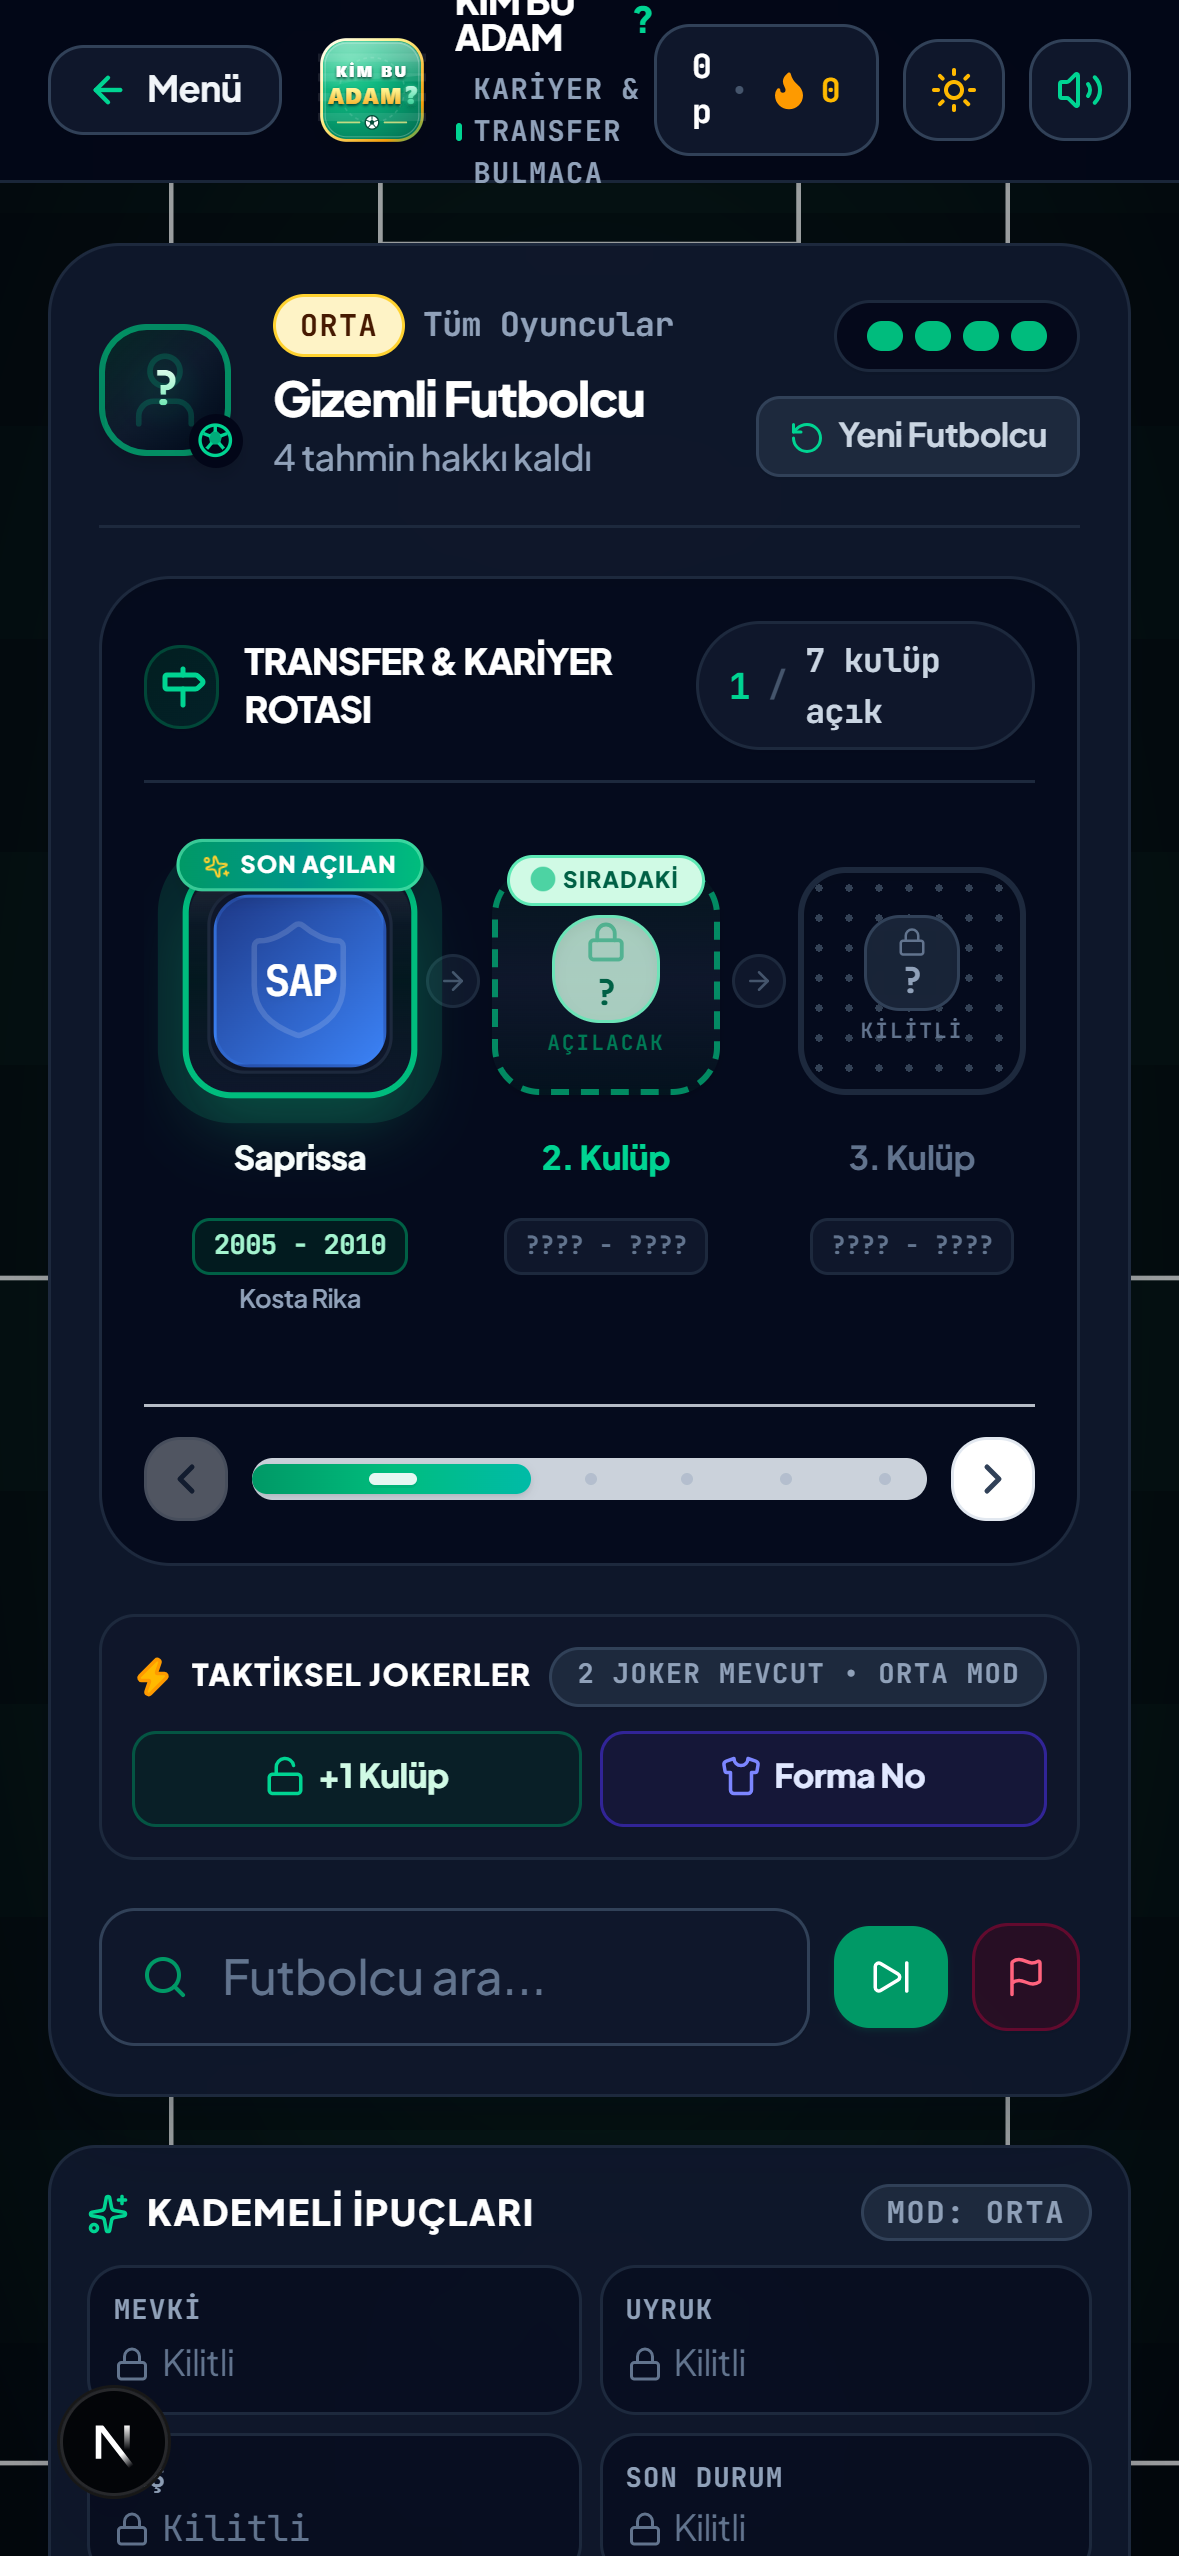
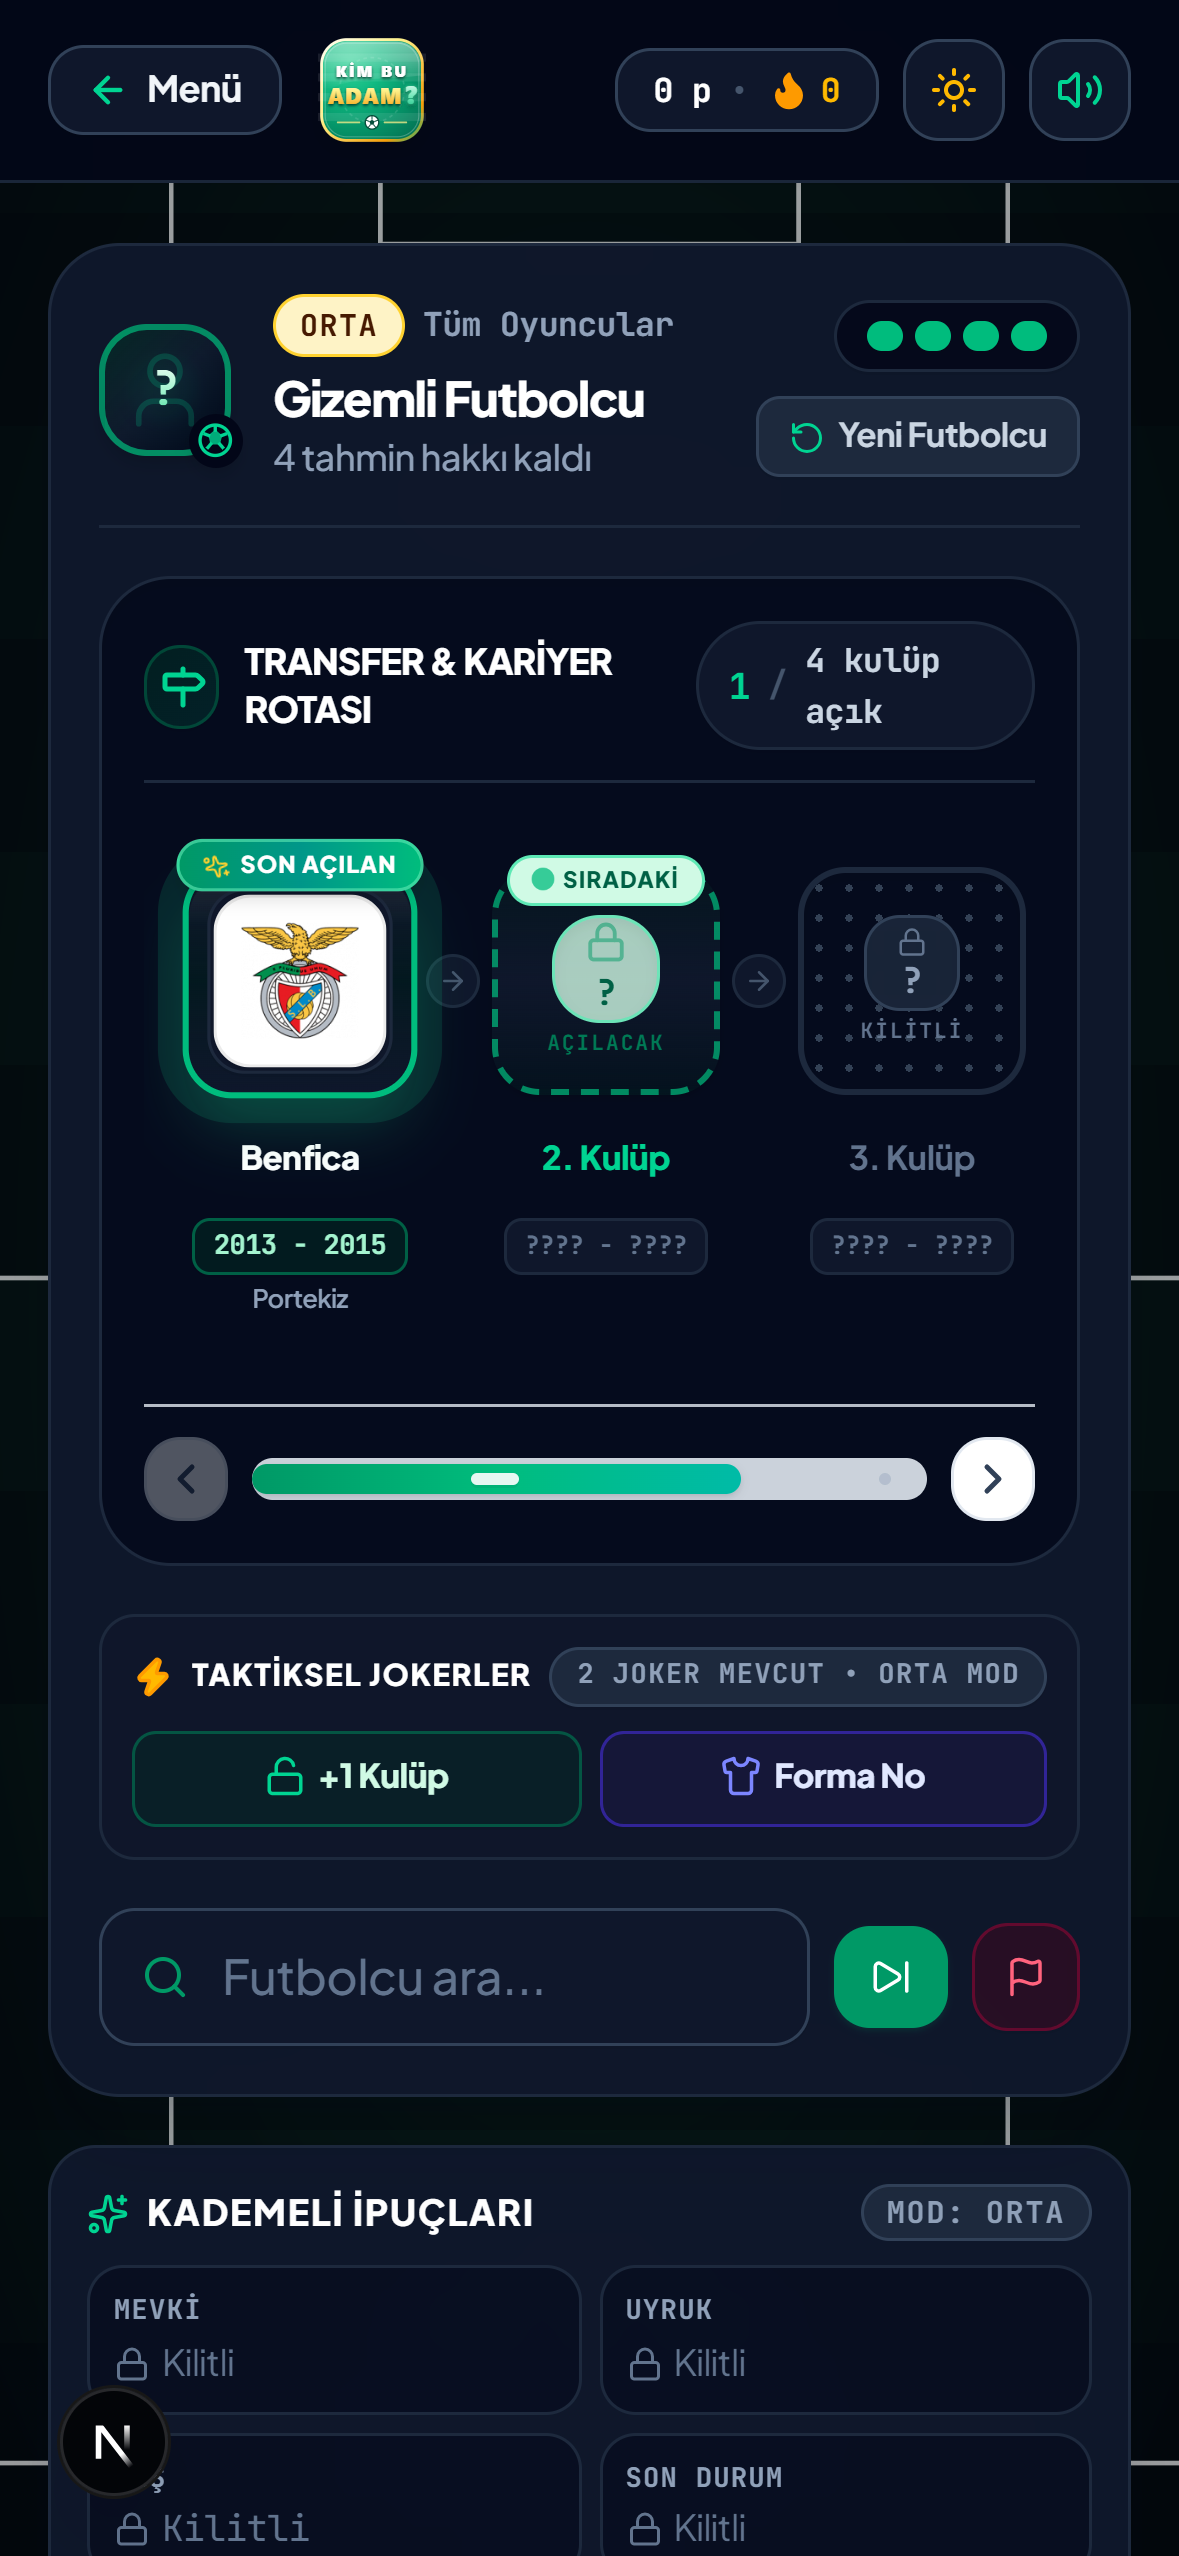
fix(responsive): refine mobile header in game view with hideTextOnMobile and refresh all linkedin screenshots

diff --git a/src/components/GameLogo.tsx b/src/components/GameLogo.tsx
@@ -5,12 +5,14 @@ import React from "react";
 interface GameLogoProps {
   size?: "sm" | "md" | "lg" | "xl";
   showText?: boolean;
+  hideTextOnMobile?: boolean;
   className?: string;
 }
 
 export const GameLogo: React.FC<GameLogoProps> = React.memo(({
   size = "md",
   showText = false,
+  hideTextOnMobile = false,
   className = "",
 }) => {
   const dimensions = {
@@ -244,7 +246,7 @@ export const GameLogo: React.FC<GameLogoProps> = React.memo(({
 
       {/* İsim Tipografisi (Header ve Yan Metin) */}
       {showText && (
-        <div className="flex flex-col select-none">
+        <div className={`flex-col select-none ${hideTextOnMobile ? "hidden sm:flex" : "flex"}`}>
           <div className={`font-black tracking-tight text-slate-950 dark:text-white leading-none ${textSize} flex items-center gap-0.5`}>
             <span>KİM BU ADAM</span>
             <span className="text-emerald-600 dark:text-emerald-400 font-black">?</span>

diff --git a/src/components/DailyGameView.tsx b/src/components/DailyGameView.tsx
@@ -343,7 +343,7 @@ export const DailyGameView: React.FC<DailyGameViewProps> = ({
               <ArrowLeft className="w-3.5 h-3.5 text-emerald-700 dark:text-emerald-400 stroke-[2.5]" />
               <span>Menü</span>
             </button>
-            <GameLogo size="sm" showText={true} />
+            <GameLogo size="sm" showText={true} hideTextOnMobile={true} />
           </div>
 
           <div className="flex items-center gap-2 text-xs">

diff --git a/src/app/page.tsx b/src/app/page.tsx
@@ -490,7 +490,7 @@ export default function FootballerGuessPage() {
               <ArrowLeft className="w-3.5 h-3.5 text-emerald-700 dark:text-emerald-400 stroke-[2.5]" />
               <span>Menü</span>
             </button>
-            <GameLogo size="sm" showText={true} />
+            <GameLogo size="sm" showText={true} hideTextOnMobile={true} />
           </div>
 
           <div className="flex items-center gap-2 text-xs">
